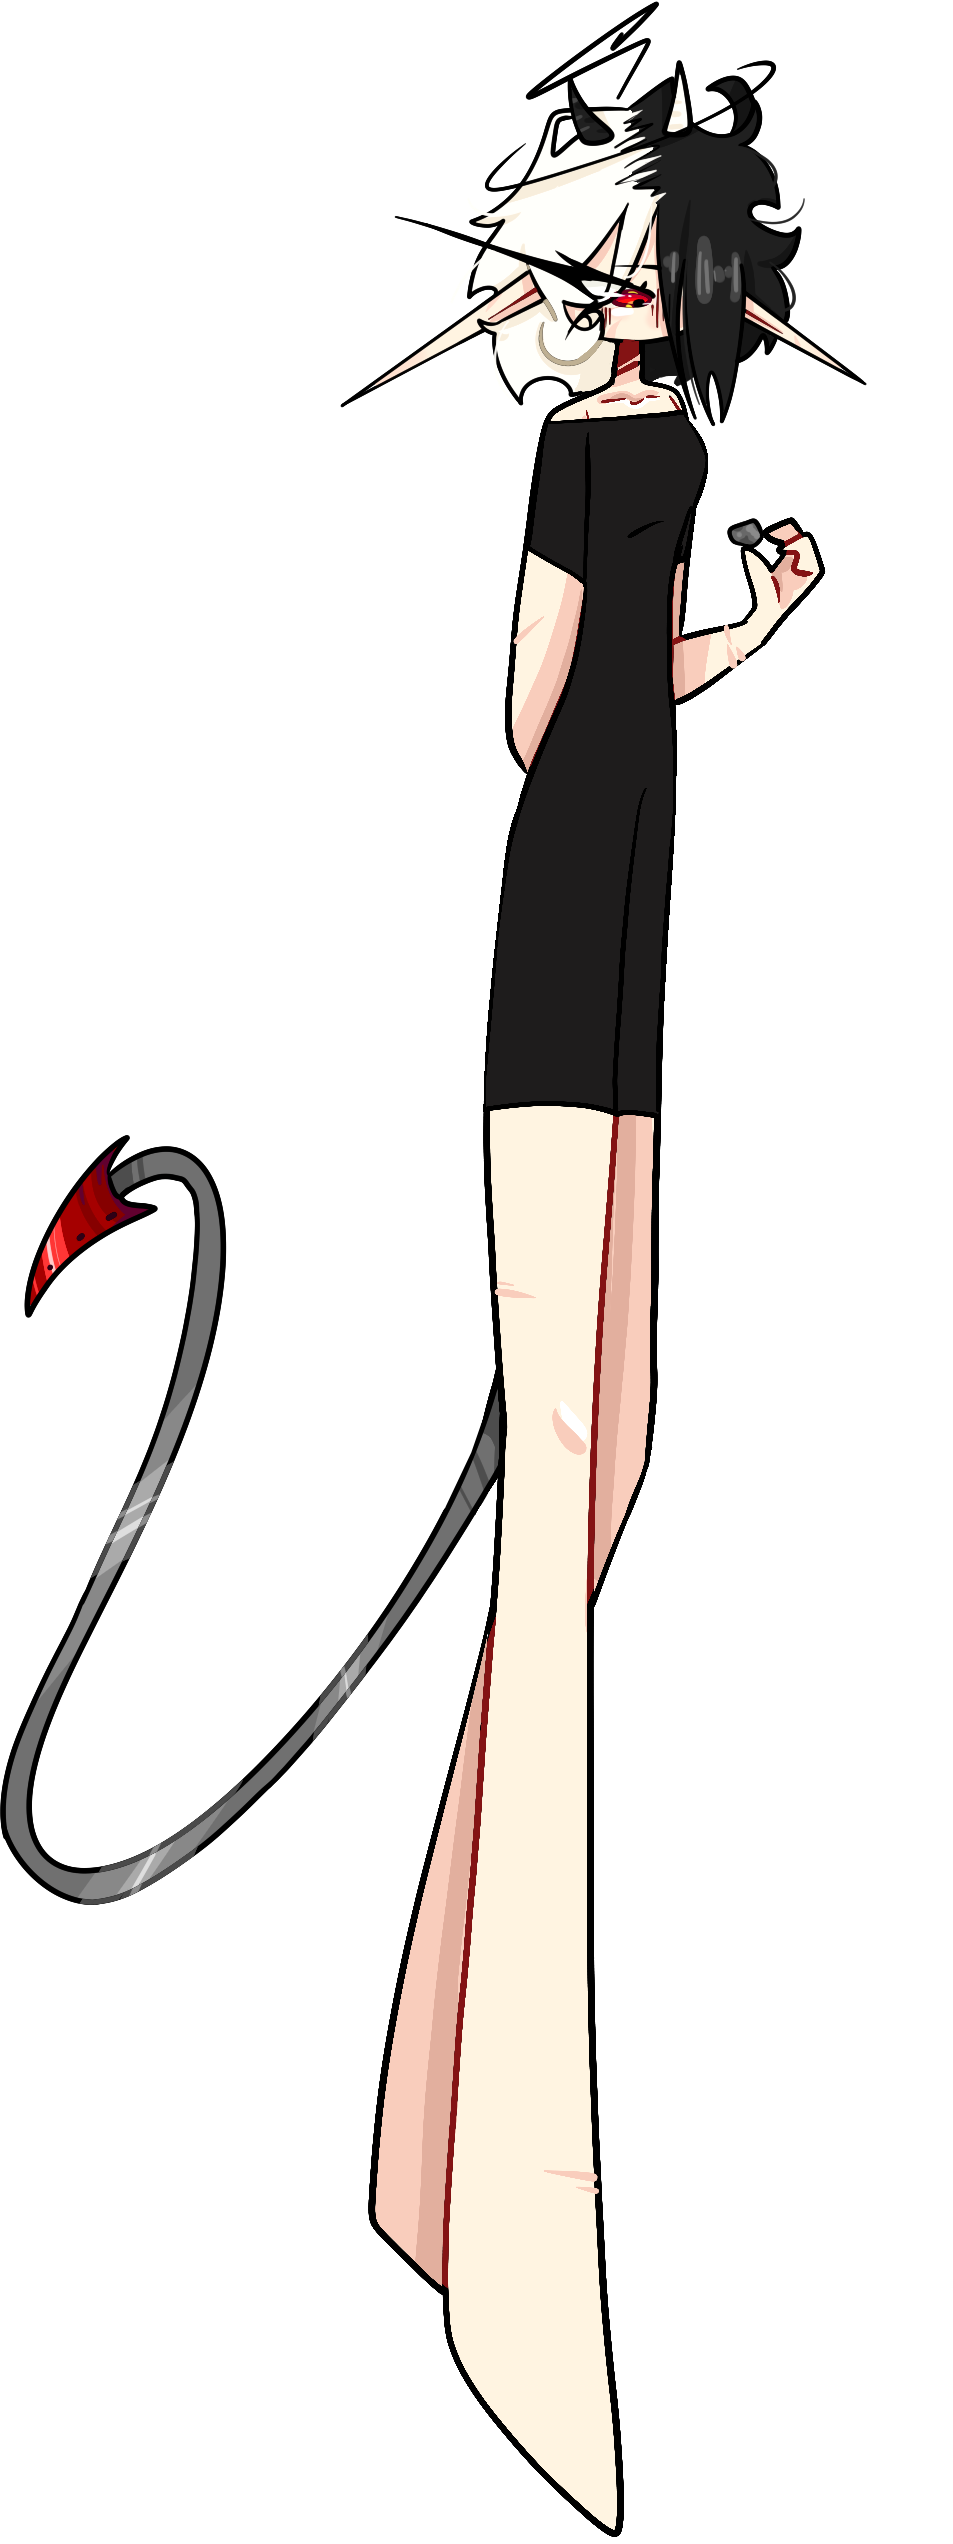
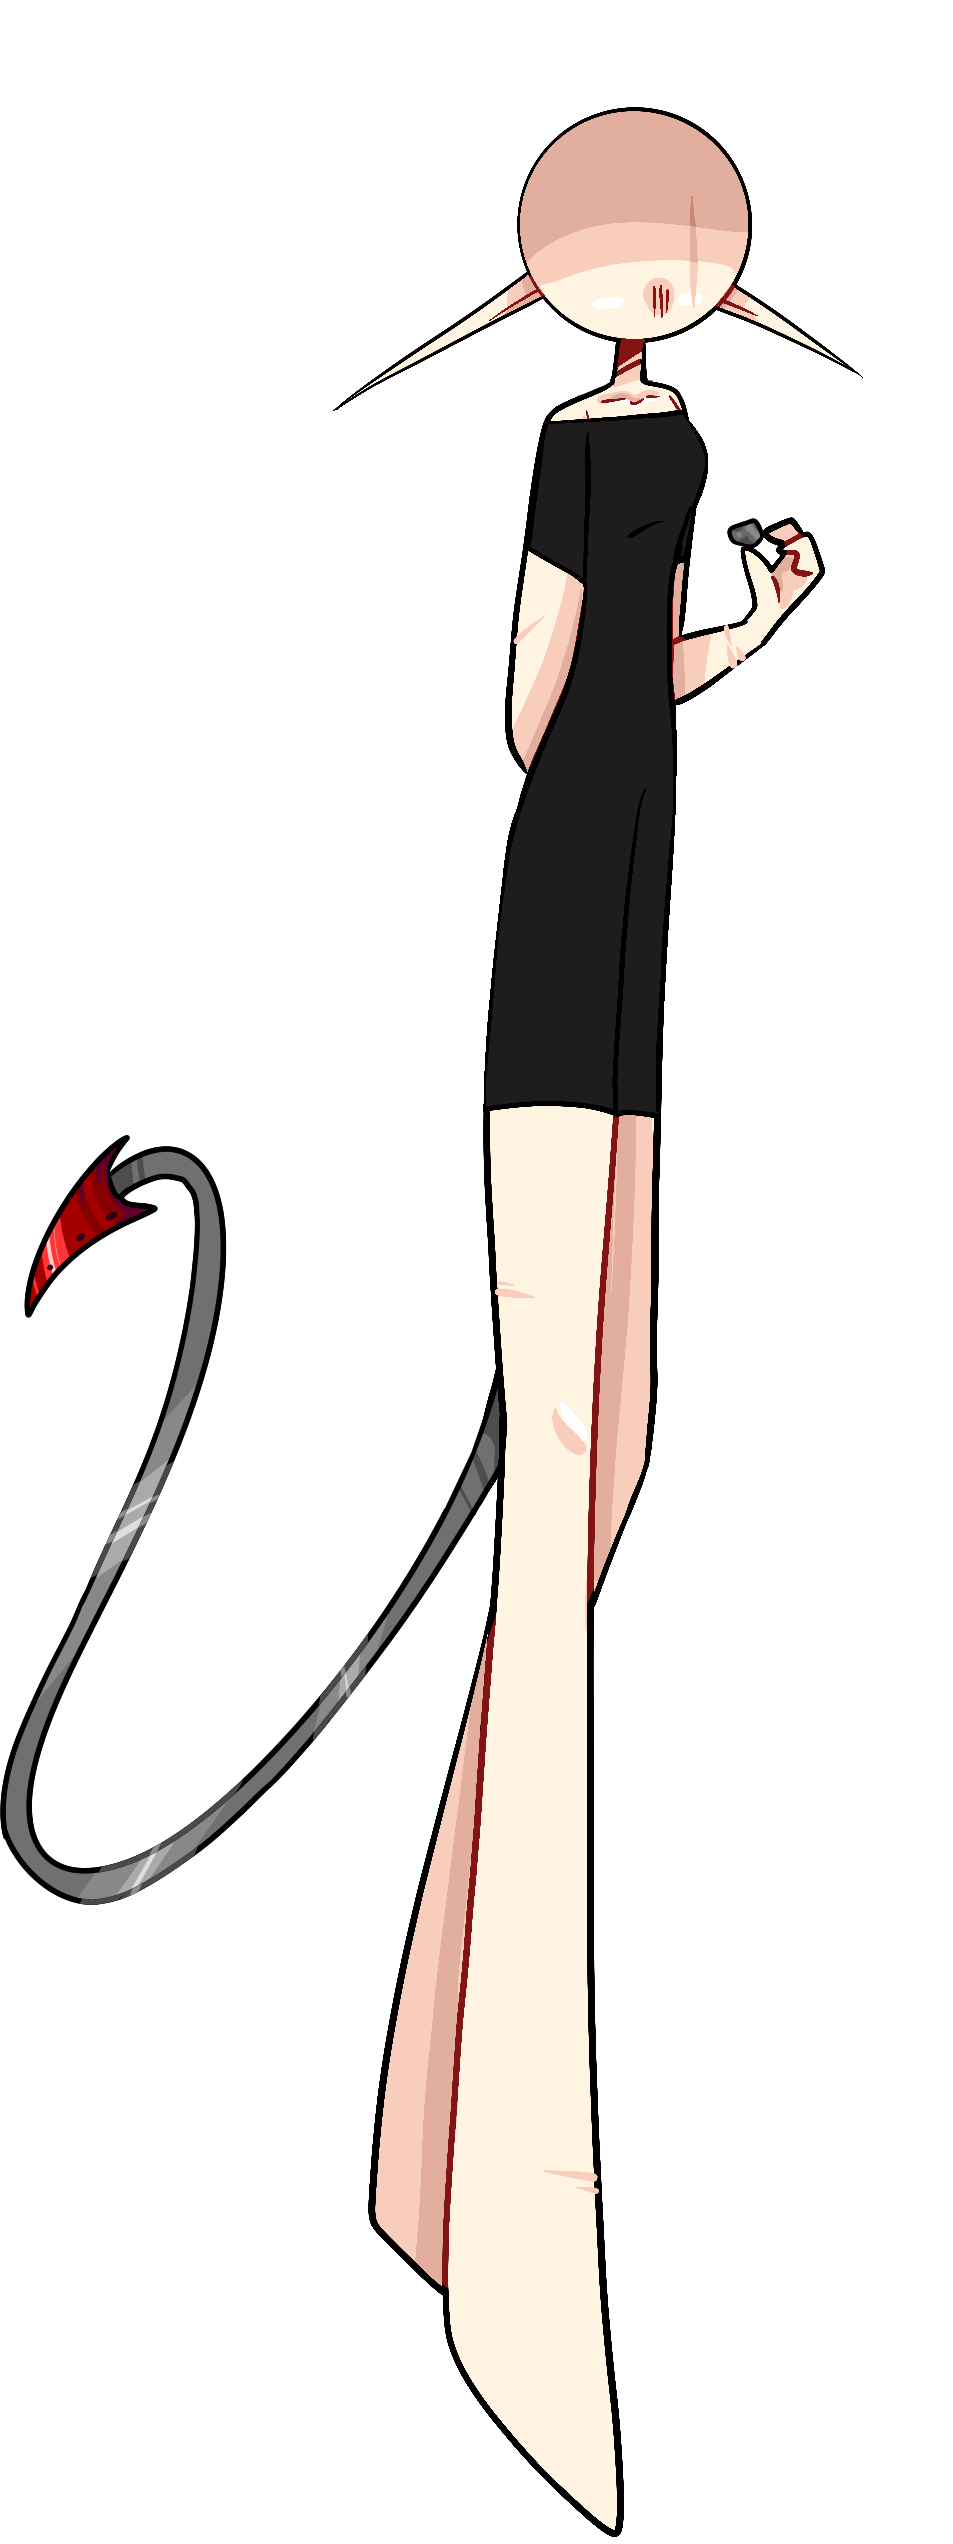
Add Celeste face images

Changed region(s): [[0.3956, 0.0, 0.9129, 0.1863]]

diff --git a/data/version.inc.php b/data/version.inc.php
@@ -1,2 +1,2 @@
 <?php
-const VERSION = 134;
+const VERSION = 135;
